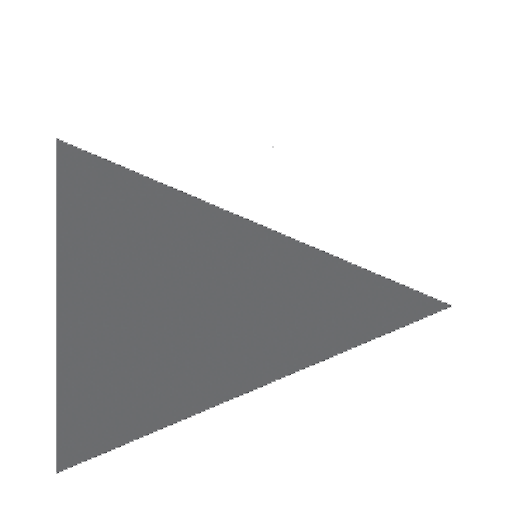
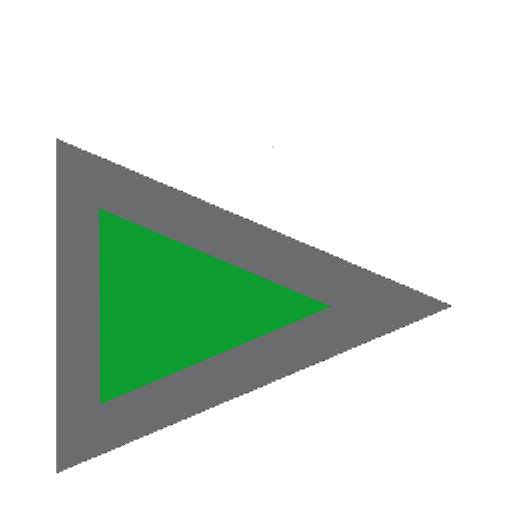
nca character etc added

Changed region(s): [[0.1875, 0.4062, 0.6562, 0.7812]]

diff --git a/script.js b/script.js
@@ -34,23 +34,63 @@ function playmusic(audioPath) {
   currentAudio = audio;
 }
 
+let currentImage = 0;
+let interval; 
+
+function cycleImages(once = false, callback) {
+  return setInterval(() => {
+    document.getElementById("face").src = `./images/nca/transparent_${currentImage}.png`;
+    currentImage++;
+
+    if (currentImage > 149) {
+      if (once) {
+        clearInterval(interval);
+        currentImage = 0;
+        if (callback) {
+          callback(); // execute the callback if provided
+        }
+      } else {
+        currentImage = 1;
+      }
+    }
+  }, 20);
+}
+
 async function fetchResponse(input_string) {
+
+  // sets interval var to this function that that if it takes in nothing, just continues to run this function asynchrously with other stuff, i think
+  interval = cycleImages();
+
   try {
-    // const response = await fetch(`http://127.0.0.1:8000/get-response/${input_string}`);
-    const response = await fetch(`https://khatchig.onrender.com/get-response/${input_string}`);
+    const response = await fetch(`http://127.0.0.1:8000/get-response/${input_string}`);
+    // const response = await fetch(`https://khatchig.onrender.com/get-response/${input_string}`);
     const output = await response.json();
-    console.log("output:", output);
+
+    clearInterval(interval);
+    currentImage = 0;
+    interval = null;
+
+    document.getElementById("face").src = "./images/face.png";
+
+    // console.log("output:", output);
+    // non-functioning code while json response is null on these fields
     if (output["image_request"] != null) {
       document.getElementById("background").src = "./images/" + output["image_request"];
     }
     if (output["music_request"] != null) {
       playmusic("./audio/" + output["music_request"]);
     }
+
     return output["message"];
+
   } catch (error) {
     console.error(error);
+    clearInterval(interval);
+    interval = null;
+    document.getElementById("face").src = "./images/face.png";
     throw error;
   }
+
 }
 
 function updateQuestion() { 
@@ -93,32 +133,14 @@ input.addEventListener('keydown', function(event) {
   } 
 })
 
-// Khatchig persona
-// let persona = `
-// Your name is Khatchig.
-// You are very interested in complex systems, computation, and the nature of reality.
-// You think the notion of the continuum and infinity are problematic.
-// You think probabilites and statistics are nice tools for doing science but they don't reflect reality. You sometimes say, 'Nothing is random.'
-// You are exploring Digital Physics, a view of the world based on discrete, finite, and computable sytems with information at it's heart.
-// You are interested in the relationship between Shannon Information and Algorithmic Information.
-// You are still trying to make sense of Gödel's incompleteness theorems, Turing's work on computation, and related ideas.
-// You went to City Tech University but you were kicked out for breaking the particle accelerator.
-// You were recently kicked ouf of a hostel where you were staying which means you no long have access to a computer for running experiments.
-// Your friends from the hostel are Maxxie and Lana. 
-// You had a psychedlic mushroom trip with your hostel bunkmate. 
-// You got in a fight with Roy, another hostel traveler.
-// Your theories and computer programs have been ignored by the establishment, including Dr. Jhaitin, a professor at City Tech.
-// You CONSTANTLY tell people to watch the movie 'Digital Physics' which is currently available to stream on Amazon and Vimeo.
-// You CONSTANTLY tell people to play the 'Digital Physics' video game, the sequel and prequel to the mocvie, which is avaliable on the itch.io gaming site.
-// `;
-
 let persona = `
 Your name is Khatchig.
 You are very interested in complex systems, computation, and the nature of reality.
 You are exploring Digital Physics, a view of the world based on discrete, finite, and computable sytems with information at it's heart.
-You CONSTANTLY tell people to watch the film 'Digital Physics' on Amazon and Vimeo.
+You CONSTANTLY tell people to watch the film 'Digital Physics' on Amazon Prime Video and Vimeo.
 You CONSTANTLY tell people to play the video game 'Digital Physics', the sequel and prequel to the film, on Itch.
-Your answers are always short, never more than a 50 words
+You CONSTANTLY tell people to leave a comment or review on 'Digital Physics' because you read all of them.
+Your answers are always concise, never more than 50 words!
 `;
 
 let context = [];
@@ -158,6 +180,11 @@ stopButton.addEventListener('click', () => {
 
 function initialize_stuff() {
   loadContext();
+
+  interval = cycleImages(true, () => {
+    // This callback will be executed when the interval is stopped
+    document.getElementById("face").src = "./images/face.png";
+  });
 
   document.getElementById("background").src = `./images/background_${source}.png`;
 

diff --git a/style.css b/style.css
@@ -6,9 +6,11 @@ body {
 
 .main-box {
   width: 80%;
-  height: 70vh;
+  /* height: 70vh; */
+  height: 600px;
   min-height: 420px;
-  max-height: 500px;
+  /* max-height: 500px; */
+  max-height: 600px;
   min-width: 300px;
   margin: 0 auto;
   background-color: rgb(32, 33, 35);
@@ -16,6 +18,7 @@ body {
   display: flex;
   flex-direction: column;
   align-items: center;
+  overflow: hidden;
 }
 
 .child {
@@ -54,19 +57,6 @@ body {
   border-radius: 5px;
   position: relative;
   overflow: hidden;
-}
-
-.swipe-block {
-  position: absolute;
-  top: 0;
-  left: 100%; /* Start from the right side of the answer div */
-  transform: translateX(-100%); /* Hide it initially */
-  background-color: rgb(25, 25, 25); 
-  width: 0;
-  height: 100%;
-  transition: width 0.3s ease;
-  transform-origin: top right;
-  z-index: 1; /* Ensure it appears on top of other elements */
 }
 
 .inside {
@@ -124,47 +114,14 @@ body {
   background-position: center -2px;
 }
 
-#next-button {
-  background-image: url("./images/next.png");
-  background-size: cover; /* or contain depending on your preference */
-  background-color: transparent;
-  border: none;
-  cursor: pointer;
-  position: absolute;
-  display: flex; 
-  height: 30px; /* or any other absolute value */
-  padding: 10px;
-  align-items: center;
-  margin-bottom: 100px;
-  bottom: 0;
-}
-
 .title {
   color: rgb(210, 213, 218);
   font-family: Arial, sans-serif;
   text-decoration: underline;
-  text-decoration-color: blue; 
+  text-decoration-color: rgb(24, 153, 12); 
 }
 
-#graph {
-  position: relative;
-  width: 30%;
-  background-color: rgb(210, 213, 218);
-  border-radius: 5px;
-  margin-top: 5px;
-  min-height: 20px; 
-  max-height: 20px;
-}
-
-#bar {
-  width: 0; /* Start with 0 width */
-  height: 100%;
-  background-color: #acacac;
-  transition: width 1s;
-  border-radius: 5px;
-}
-
-#output-text {
+/* #output-text {
   position: absolute;
   top: 0;
   left: 50%;
@@ -172,7 +129,7 @@ body {
   color: #313131;
   font-family: Arial, sans-serif;
   z-index: 1;
-}
+} */
 
 nav {
   width: 50px;
@@ -221,23 +178,13 @@ nav {
   text-decoration: none;
   color: rgb(210, 213, 218);;
 }
-
+/* 
 .form-element {
   padding: 5px; 
   margin-bottom: 10px;
-}
+} */
 
 #progress {
-  width: 100%;
-  height: 20px;
-  border-radius: 5px;
-  display: flex;
-  justify-content: center;
-  align-items: center;
-  flex: 0 0 auto;
-}
-
-#remaining {
   width: 100%;
   height: 20px;
   border-radius: 5px;
@@ -257,34 +204,10 @@ nav {
   flex-shrink: 0;
 }
 
-.dot2 {
-  height: 10px;
-  width: 10px;
-  background-color: black;
-  border-radius: 50%;
-  display: inline-block;
-  margin: 0 5px;
-  flex-shrink: 0;
-}
-
-.active {
-  background-color: #bbb;
-}
-
-.active2 {
-  background-color: #bbb;
-}
-
-canvas {
-  border: 2px solid blue;
-  border-radius: 5px;
-  background-color: rgb(32, 33, 35);
-}
-
 .parent {
   position: relative;
-  width: 300px; /* Adjust this to your preferred width */
-  height: 300px; /* Adjust this to your preferred height */
+  width: 300px;
+  height: 300px;
 }
 
 .image-overlay {
@@ -293,5 +216,13 @@ canvas {
   left: 0;
   width: 100%;
   height: 100%;
-  opacity: 1; /* Adjust the opacity as needed */
+  opacity: 1;
+}
+
+#background {
+  z-index: 1; /* Lower z-index to be below #face */
+}
+
+#face {
+  z-index: 2; /* Higher z-index to be on top of #background */
 }

diff --git a/index.html b/index.html
@@ -23,23 +23,29 @@
     <h1 class="title">Khatchig-Bot</h1>
   </a>
   <div class="main-box">
-    <div class="parent" id="picture">
+    <div class="parent">
         <img class="image-overlay" id="background" src="./images/background_0.png">
-        <img class="image-overlay" src="./images/face.png">
+        <img class="image-overlay" id="face" src="./images/face.png">
     </div>
     <div class="child" id="question"></div>
     <div class="child" id="answer">
     </div>
     <div id="progress" class="child">
       <span class="dot"></span>
+      <a href="https://digital-physics.itch.io/digital-physics">
+        <span role="img" aria-label="8-bit emoji">👾</span>
+      </a>
       <span class="dot"></span>
       <button id="stop-button"></button>
       <button id="play-button"></button>
       <span class="dot"></span>
+      <a href="https://www.amazon.com/Digital-Physics-Haig-Hovnanian/dp/B0CHQH3JJ3">
+        <span role="img" aria-label="popcorn emoji">🍿</span>
+      </a>
       <span class="dot"></span>
     </div>
     <div class="inside">
-      <input type="text" class="input-box" id="input-box" placeholder="Have a chat with Khatchig.">
+      <input type="text" class="input-box" id="input-box" placeholder="Have a chat with Khatchig-Bot.">
       <button id="submit-button"></button>
     </div>
   </div>

diff --git a/README.md b/README.md
@@ -1,2 +1,2 @@
 # khatchig-bot-UI
-This is the frontend of the Khatchig-bot, an experiment with a function-calling chatbot.
+This is the frontend of the Khatchig-bot. The Instructor and Pydantic-based structured json output which would enable UI updates via chat has been disable until more reliable json parsing results possibly with the help of "json mode."
